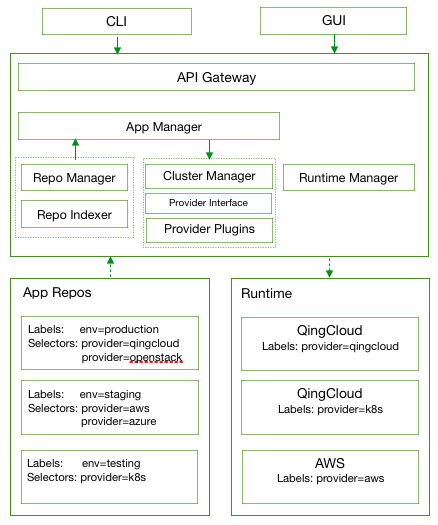
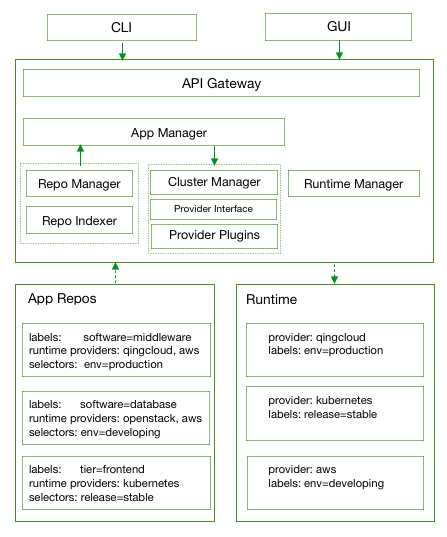
update arch image

Changed region(s): [[0.0297, 0.0, 1.0, 0.9752], [0.9201, 0.0305, 0.9498, 0.061]]

diff --git a/README.md b/README.md
@@ -20,7 +20,7 @@ The project originates from [QingCloud AppCenter](https://appcenter.qingcloud.co
 
 ## Design
 
-Basic idea is to decouple application repository and runtime environment. The runtime environment that an application can run is by matching the labels of runtime environment and the selector of the repository where the application is from. Please check out how to [design the project](docs/design/README.md).
+Basic idea is to decouple application repository and runtime environment. The runtime environment that an application can run is by matching the labels of runtime environment and the selectors of the repository where the application is from besides the provider. Please check out how to [design the project](docs/design/README.md).
 
 ## Contributing to the project
 
